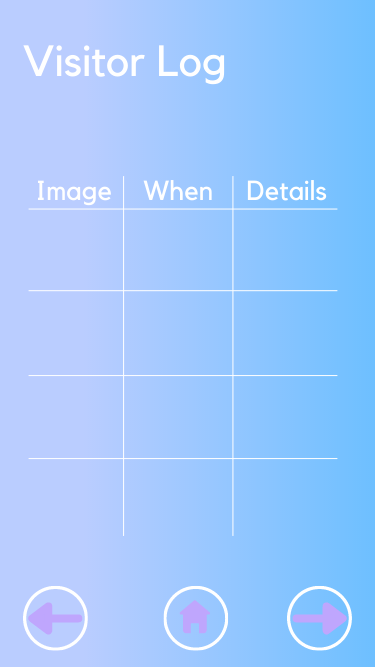
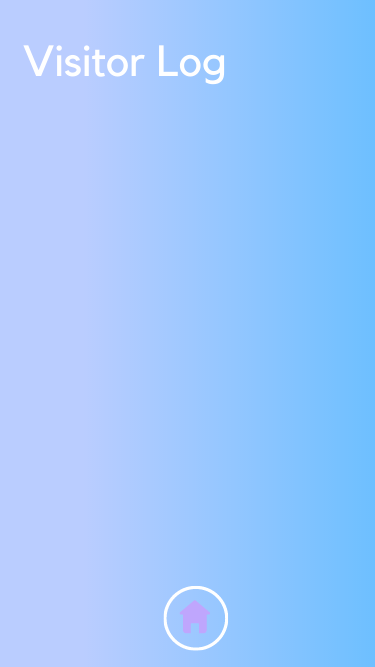
updates

diff --git a/main.py b/main.py
@@ -6,6 +6,8 @@ from kivymd.uix.textfield import MDTextField
 from kivymd.uix.dialog import MDDialog
 from kivymd.uix.taptargetview import MDTapTargetView
 from kivymd.uix.button import MDFlatButton, MDRaisedButton
+from kivymd.uix.list import TwoLineAvatarListItem
+from kivymd.uix.list import ImageLeftWidget
 from kivy.uix.image import AsyncImage
 from kivy.uix.boxlayout import BoxLayout
 from kivy.core.audio import SoundLoader
@@ -997,7 +999,121 @@ class MessageResponses_createText(MessageResponses_view):
 
 
 class VisitorLog(Launch):
-    pass
+    def __init__(self, **kw):
+        super().__init__(**kw)
+        self.averageRate = 'Test'
+        thread = Thread(target=self.schedule)
+        thread.start()
+        self.get_averageRate()
+
+
+    def schedule(self):
+        Clock.schedule_once(self.visitorLog)
+
+    def visitorLog(self, dt):
+        self.statusUpdate()
+        dbData_accountID = {"accountID": self.accountID}
+        self.visitors = requests.post(serverBaseURL + "/get_visitorLog", dbData_accountID).json()
+        for index, visitDetails in enumerate(self.visitors):
+            self.faceID = visitDetails[1]
+            self.visitID = visitDetails[2]
+            self.date = time.strftime('%d-%m-%Y', time.gmtime(float(visitDetails[0][6:])))
+            self.visitorImage_path = join(self.filepath, self.visitID + '.png')
+            self.get_visitorImage()
+            if self.faceID != 'NO_FACE':
+                dbData_faceID = {"faceID": self.faceID}
+                result = requests.post(serverBaseURL + "/get_faceName", dbData_faceID).json()
+                faceName = result[0]
+                self.visitors[index][1] = faceName # replace face ID with face name
+            else: # if no face identified
+                self.visitors[index][1] = 'No face identified'
+            self.visitors[index][2] = self.visitorImage_path
+            self.visitors[index] += (self.date,) # append to tuple
+        self.visitors = list(map(lambda a:(a[0][6:], a[1], a[2], a[3]), self.visitors)) # create tuples sorted by time
+        self.displayLog('date')
+
+    def displayLog(self, dateORname):
+        self.visitorsSorted = self.mergeSort(self.visitors, dateORname)
+        self.ids.container.clear_widgets()
+        for i in range(len(self.visitorsSorted)):
+            newWidget = TwoLineAvatarListItem(text=f"Name: {self.visitorsSorted[i][1]}", secondary_text = f"Date: {self.visitorsSorted[i][3]}")
+            newWidget.add_widget(ImageLeftWidget(source= self.visitorsSorted[i][2]))
+            self.ids.container.add_widget(newWidget)
+
+    def get_visitorImage(self):
+        downloadData = {"bucketName": "nea-visitor-log",
+                        "s3File": self.visitID}  # creates the dictionary which stores the metadata required to download the png file of the visitor image from AWS S3 (via the server REST API)
+        response = requests.post(serverBaseURL + "/downloadS3",
+                                 downloadData)  # request sent to custom REST API, which uses 'boto3' module to attempt to download the visitor image with name 'visitID' from AWS S3
+        responseMessage = response.content  # bytes content of message returned by REST API
+        time.sleep(0.5)  # time delay to reduce number of requests to AWS API, reducing running costs
+        visitorImage_data = responseMessage  # stores visitor image bytes data
+        f = open(self.visitorImage_path,'wb')  # opens file to store image bytes (opens in 'wb' format to enable bytes to be written to this file)
+        f.write(visitorImage_data)  # writes visitor image bytes data to the file
+        f.close()
+        time.sleep(0.5)
+
+
+    def mergeSort(self, array, dateORname):
+        if dateORname == 'date':
+            index = 1
+            self.date = True
+        else:
+            index = 0
+            self.date = False
+        if len(array) > 1:
+
+            # Finding the mid of the array
+            mid = len(array) // 2
+
+            # Dividing the array elements
+            left = array[:mid]
+
+            # into 2 halves
+            right = array[mid:]
+
+            # Sorting the first half
+            self.mergeSort(left, dateORname)
+
+            # Sorting the second half
+            self.mergeSort(right, dateORname)
+
+            i = j = k = 0
+
+            while i < len(left) and j < len(right):
+                if left[i][index] < right[j][index]: # sort by first item in tuple
+                    array[k] = left[i]
+                    i += 1
+                else:
+                    array[k] = right[j]
+                    j += 1
+                k += 1
+
+            # Checking if any element was left
+            while i < len(left):
+                array[k] = left[i]
+                i += 1
+                k += 1
+
+            while j < len(right):
+                array[k] = right[j]
+                j += 1
+                k += 1
+        return array
+
+    def get_averageRate(self):
+        dbData_accountID = {"accountID": self.accountID}
+        response = requests.post(serverBaseURL + "/get_averageRate", dbData_accountID)
+        self.averageRate = response.json()['result']
+        print(self.averageRate)
+
+    def get_averageTime(self):
+        dbData_accountID = {"accountID": self.accountID}
+        response = requests.post(serverBaseURL + "/get_averageTime", dbData_accountID)
+        self.averageTime = response.json()['result']
+        print(self.averageTime)
+
+
 
 
 class RingAlert(Launch):

diff --git a/susbcribe.py b/susbcribe.py
@@ -11,3 +11,4 @@ client.subscribe("testing")
 client.message_callback_add("testing", on_message)
 client.loop_forever()
 
+
